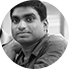
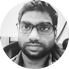
home team slider

diff --git a/FrontEnd/css/main.css b/FrontEnd/css/main.css
@@ -1405,13 +1405,50 @@ header {
   color: #2c2e30;
 }
 
+.v-middle-wrap {
+  vertical-align: middle;
+  height: 100%;
+  display: inline-block;
+}
+.v-middle-wrap .helper {
+  display: inline-block;
+  height: 100%;
+  vertical-align: middle;
+}
+.v-middle-wrap .v-middle {
+  display: inline-block;
+  vertical-align: middle;
+  margin-top: 5px;
+}
+
 .meet-our-team-panel {
   background: #fff;
 }
 
+.meet-our-team-content {
+  margin-bottom: 30px;
+}
 .meet-our-team-content h4 {
   font-size: 18px;
   line-height: 26px;
+}
+
+.meet-our-team li {
+  text-align: center;
+  margin-bottom: 15px;
+  background: #f1f1f1;
+  padding: 10% 0 9%;
+}
+.meet-our-team li figure {
+  margin-bottom: 5px;
+}
+.meet-our-team li h5 {
+  font-size: 16px;
+  margin-bottom: 0;
+}
+.meet-our-team li p {
+  color: #757677;
+  font-size: 16px;
 }
 
 @media (min-width: 768px) {
@@ -1607,6 +1644,22 @@ header {
     line-height: 35px;
   }
 
+  .meet-our-team {
+    margin: 0 -15px;
+  }
+  .meet-our-team li {
+    width: 50%;
+    float: left;
+    margin: 0;
+    padding: 0;
+  }
+  .meet-our-team li p {
+    font-size: 15px;
+  }
+  .meet-our-team li.team-1, .meet-our-team li.team-2 {
+    background: #fff;
+  }
+
   .stripe-1 {
     color: white;
     background: repeating-linear-gradient(45deg, #606dbc, #606dbc 10px, #465298 10px, #465298 20px);
@@ -1625,6 +1678,10 @@ header {
   }
 
   .block-wrap .block {
+    height: 187px;
+  }
+
+  .meet-our-team li {
     height: 187px;
   }
 }
@@ -1674,6 +1731,10 @@ header {
     padding-right: 10%;
   }
 
+  .meet-our-team-content {
+    padding: 22% 15% 0;
+  }
+
   .work-with-us-panel {
     height: 485px;
   }
@@ -1683,6 +1744,10 @@ header {
   }
 
   .block-wrap .block {
+    height: 242px;
+  }
+
+  .meet-our-team li {
     height: 242px;
   }
 }
@@ -1696,6 +1761,10 @@ header {
   }
 
   .block-wrap .block {
+    height: 261px;
+  }
+
+  .meet-our-team li {
     height: 261px;
   }
 }

diff --git a/FrontEnd/views/home.html b/FrontEnd/views/home.html
@@ -98,13 +98,20 @@
         </div>
         <div class="layout-sm-6">
             <div class="meet-our-team" ng-controller="homeTeamCtrl as homeTeam">
-                <ul>
-                    <li ng-repeat="team in homeTeam.teamMembers">
-                        <figure>
-                            <img src="" alt="">
-                        </figure>
-                        <h5>{{team.name}}</h5>
-                        <p></p>
+                <button ng-click="homeTeam.incri(homeTeam.start, homeTeam.end)">incriment</button>
+                <button ng-click="homeTeam.decrement(homeTeam.start, homeTeam.end)">incriment</button>
+                <ul> 
+                    <li ng-repeat="team in homeTeam.teamMembers.slice(homeTeam.start, homeTeam.end)" ng-class="['team-'+$index]">
+                        <div class="v-middle-wrap">
+                            <span class="helper"></span>
+                            <div class="v-middle">
+                                <figure>
+                                    <img ng-src="{{team.image}}" alt="">
+                                </figure>
+                                <h5>{{team.name}}</h5>
+                                <p>{{team.desigination}}</p>
+                            </div>
+                        </div>
                     </li>
                 </ul>
             </div>

diff --git a/FrontEnd/sass/_home.scss b/FrontEnd/sass/_home.scss
@@ -199,17 +199,52 @@ header{
         }
     }
 }
- 
+
+.v-middle-wrap{
+    vertical-align:middle;
+    height:100%;
+    display:inline-block;
+    .helper{
+        display: inline-block;
+        height: 100%;
+        vertical-align: middle;
+    }
+    .v-middle{
+        display:inline-block;
+        vertical-align:middle;
+        margin-top:5px;
+    }
+}
 //meet-our-team-panel
 .meet-our-team-panel{
     background:#fff;
 }
 .meet-our-team-content{
+    margin-bottom:30px;
     .title{
         @extend %title;
     }
     h4{
         font-size: 18px;
         line-height: 26px;
+    }
+}
+.meet-our-team{
+    li{
+        text-align: center;
+        margin-bottom:15px;
+        background:$white-grey;
+        padding:10% 0 9%;
+        figure{
+            margin-bottom:5px;
+        }
+        h5{
+            font-size:16px;
+            margin-bottom:0;
+        }
+        p{
+            color:#757677;
+            font-size:16px;
+        }
     }
 }

diff --git a/FrontEnd/sass/responsive/_responsive-sm.scss b/FrontEnd/sass/responsive/_responsive-sm.scss
@@ -210,6 +210,25 @@
             line-height: 35px;
         }
     }
+    //=========================
+    
+    //meet-our-team
+    //=========================
+    .meet-our-team{
+        margin:0 -15px;
+        li{
+            width:50%;
+            float:left;
+            margin:0;
+            padding:0;
+            p{
+                font-size:15px;
+            }
+        }
+        li.team-1, li.team-2{
+            background:#fff;  
+        }
+    }
     //strip
     //========================
     .stripe-1 {
@@ -236,6 +255,9 @@
         height:562px; // (750/4)*3
     }
     .block-wrap .block{
+        height:187px; // (750/4)*1
+    }
+    .meet-our-team li{
         height:187px; // (750/4)*1
     }
 //end sm	

diff --git a/FrontEnd/js/controllers.js b/FrontEnd/js/controllers.js
@@ -44,6 +44,23 @@ designAppControllers.controller('homeCtrl',['$scope', '$http', function($scope, 
         vm.teamMembers = response;
         console.log(vm.teamMembers[0].name);
     });
+    vm.start = 0;
+    vm.end = 2;
+    vm.incri = function(start, end){
+        if( vm.teamMembers.length > vm.end){
+            vm.start = start += 2;
+            vm.end = end += 2 ;
+            console.log(vm.start);
+        }else{
+            vm.start = 0;
+            vm.end = 2;
+        }
+    }
+    vm.decrement = function(start, end){
+        vm.start = start -= 2;
+        vm.end = end -= 2 ;
+        console.log(vm.start);
+    }
 }]);
  
 

diff --git a/FrontEnd/sass/responsive/_responsive-md.scss b/FrontEnd/sass/responsive/_responsive-md.scss
@@ -26,7 +26,11 @@
     .major-works-box{
         padding-right:10%;
     }
-    
+    //meet-our-team
+    //======================
+    .meet-our-team-content{
+        padding:22% 15% 0; 
+    }
     //===============
     //height set
     .work-with-us-panel{
@@ -36,6 +40,9 @@
         height:727px; // (970/4)*3
     }
     .block-wrap .block{
+        height:242px; // (970/4)*1
+    }
+    .meet-our-team li{
         height:242px; // (970/4)*1
     }
 //end

diff --git a/FrontEnd/sass/responsive/_responsive-lg.scss b/FrontEnd/sass/responsive/_responsive-lg.scss
@@ -13,6 +13,9 @@
     .block-wrap .block{
         height:261px; // (1044/4)*1
     }
+    .meet-our-team li{
+        height:261px; // (1044/4)*1
+    }
 //end
 }
 
